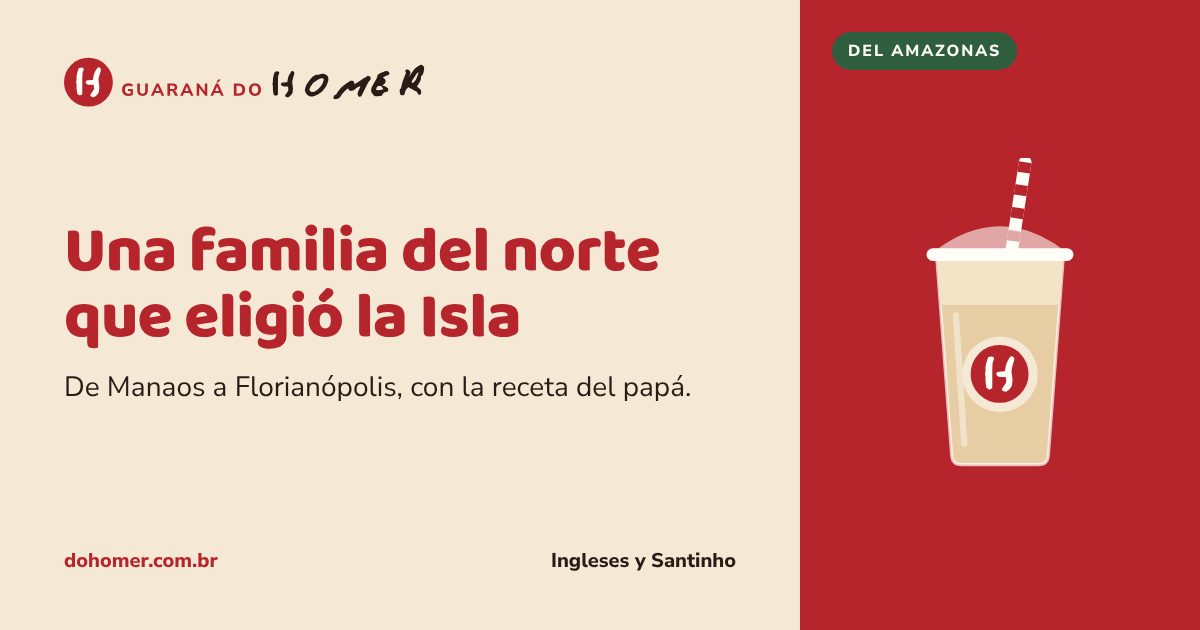
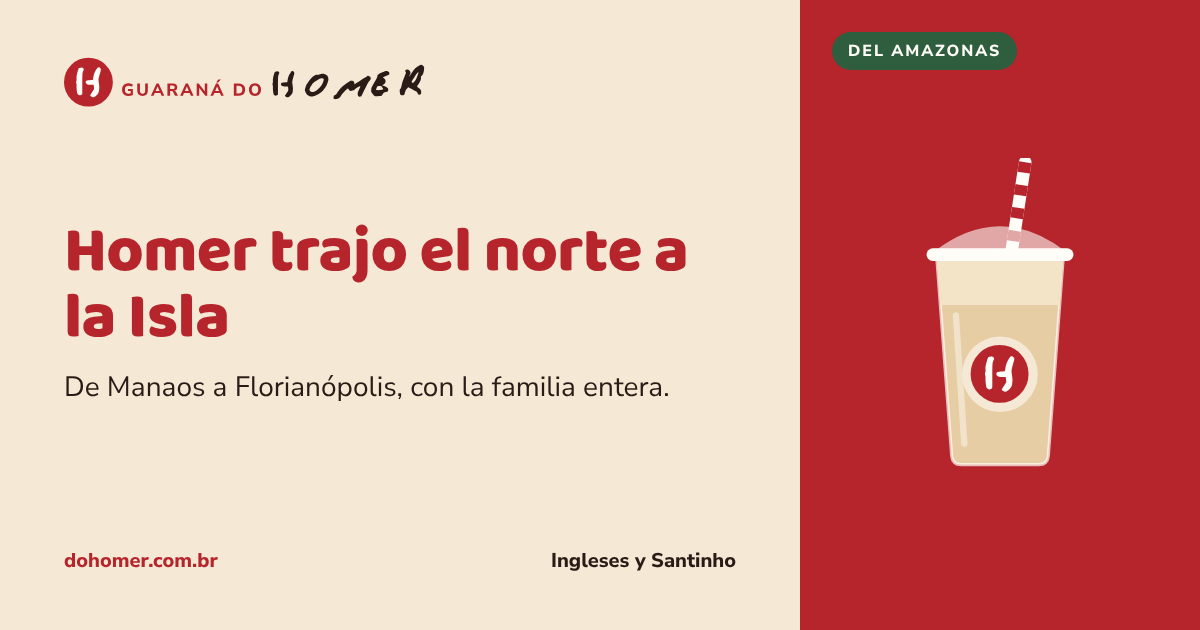
conteudo: nossa história contada pelo Homer, fundador (#11)
- Sem primeira pessoa: "Homer trouxe o Norte para a Ilha". Homer, de Manaus, como quem cria a empresa;
  os filhos vêm primeiro (filho, depois filha e genro), Homer e a esposa vêm para ficar perto, e a família fica.
- Linha do tempo em 4 passos; fechamento "Homer trouxe o Norte na bagagem".
- Página inicial, valores e prévias sem "meu pai"; "A receita do Homer". PT e ES.

Claude-Session: https://claude.ai/code/session_01WLto7ZHvuxtpwrREhLCPxD

Changed region(s): [[0.0617, 0.3619, 0.5858, 0.573], [0.4008, 0.6032, 0.5858, 0.6333], [0.0308, 0.4524, 0.0617, 0.4825]]

diff --git a/src/estilos/site.css b/src/estilos/site.css
@@ -369,7 +369,7 @@ h1, h2, h3 { text-wrap: balance; }
 .historia__passo p { margin: 0; }
 .historia__fechamento { margin: var(--esp-10) 0 0; font-family: var(--fonte-titulo); font-weight: 800; font-size: var(--texto-xl); line-height: 1.2; color: var(--gh-semente); max-width: 680px; }
 @media (min-width: 1024px) {
-  .historia { grid-template-columns: repeat(5, minmax(0, 1fr)); gap: var(--esp-6); }
+  .historia { grid-auto-flow: column; grid-auto-columns: minmax(0, 1fr); gap: var(--esp-6); }
   .historia::before { left: 8px; right: 8px; top: 7px; bottom: auto; border-left: 0; border-top: 2px dashed var(--gh-vermelho); }
   .historia__passo { padding-left: 0; padding-top: var(--esp-8); }
   .historia__passo::before { top: 0; }
